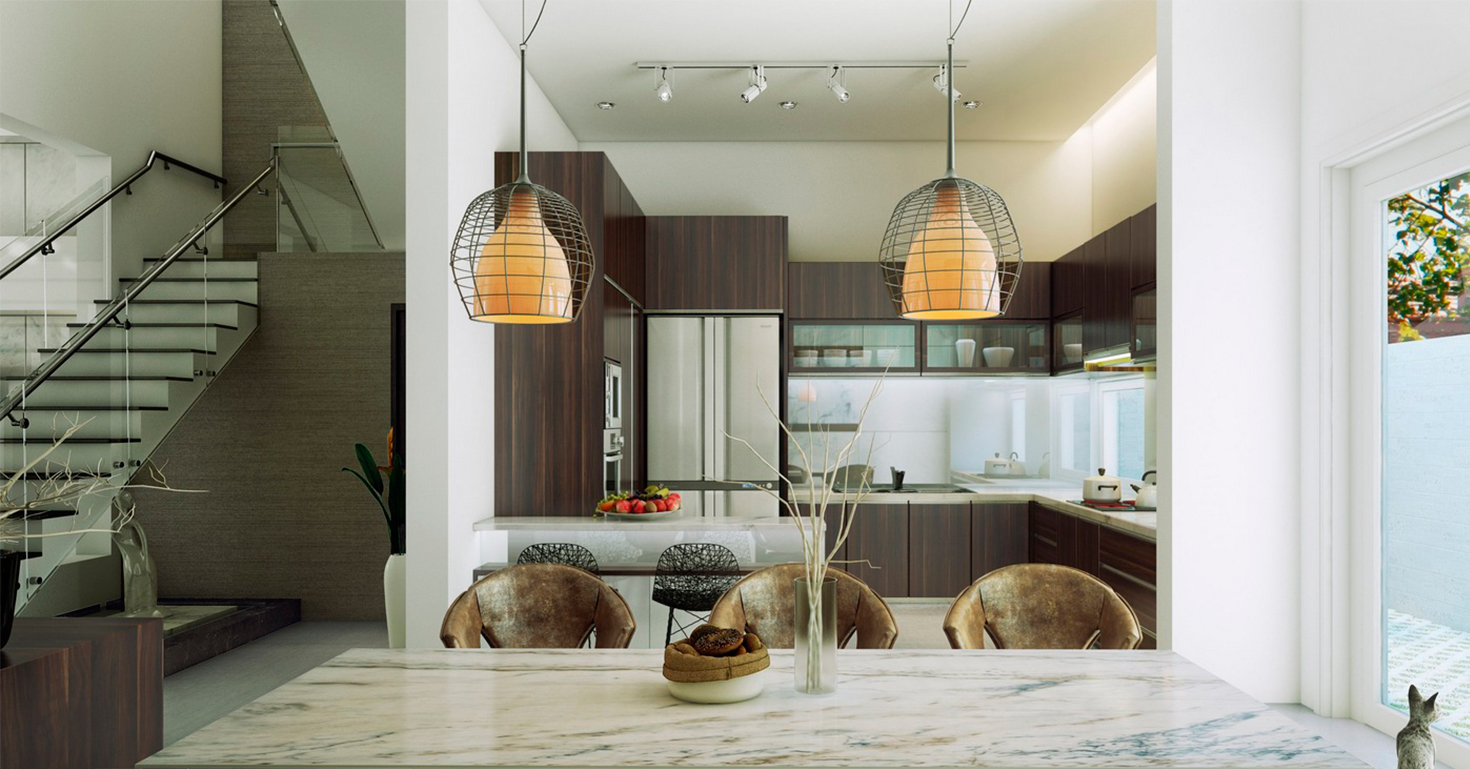
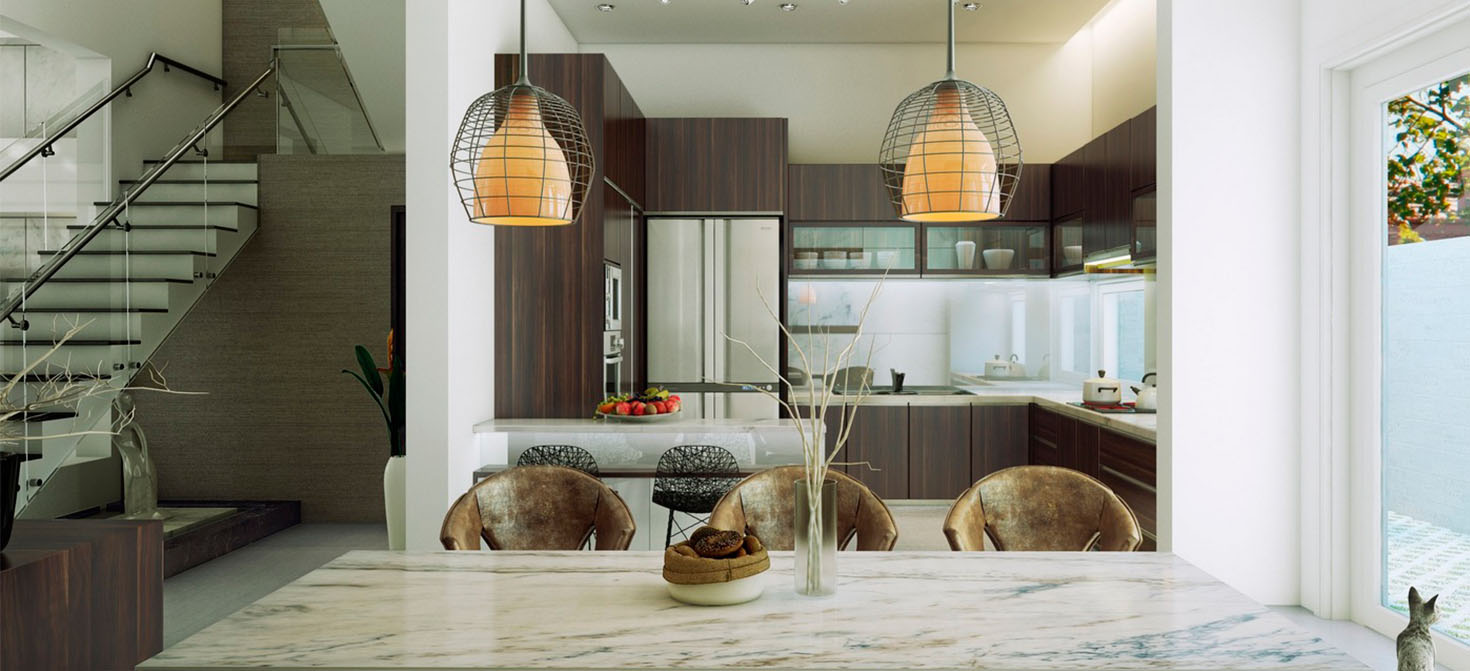
Fix main image

diff --git a/css/style.css b/css/style.css
@@ -233,7 +233,7 @@ h1, h2, h3, h4, h5, h6 { font-family: 'Playfair Display', serif; }
 .main {
     width: 100%;
     display: block;
-    background-image: url('../img/main-img-full-cutted.jpg');    
+    background-image: url('../img/main-img-full.jpg');    
     background-repeat: no-repeat;    
     background-position: center;   
     background-color: #4e4d50;

diff --git a/js/script.js b/js/script.js
@@ -1,6 +1,6 @@
 let sliderImages = {
     'dot1': "url('./img/slider-img1-cutted.jpg')",
-    'dot2': "url('./img/main-img-full-cutted.jpg')",
+    'dot2': "url('./img/main-img-full.jpg')",
     'dot3': "url('./img/slider-img2-cutted.jpg')"
 };
 
